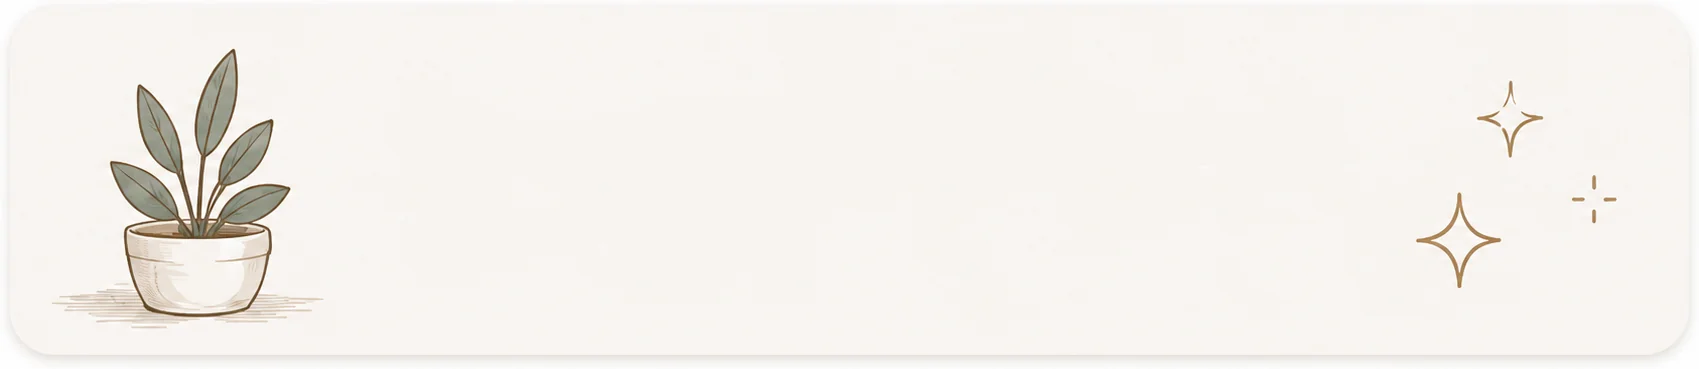
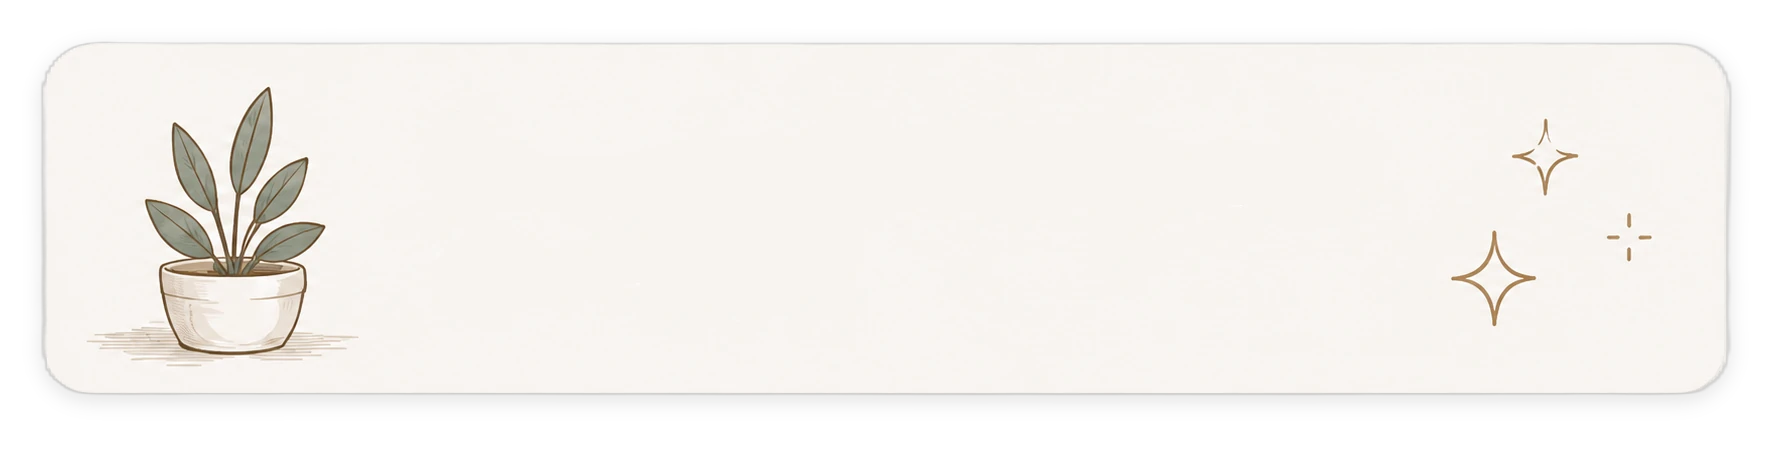
Replace done-today image with truly transparent version plus soft drop shadow

diff --git a/src/screens/HomeTab.jsx b/src/screens/HomeTab.jsx
@@ -64,8 +64,7 @@ export function HomeTab({
       </div>
 
       {allDoneToday ? (
-        <div style={{ margin: "16px 20px 8px", borderRadius: 18, overflow: "hidden", position: "relative",
-          boxShadow: "0 4px 12px rgba(52,64,50,.10)" }}>
+        <div style={{ margin: "16px 20px 8px", position: "relative" }}>
           <img src={DONE_TODAY_IMG} alt="" style={{ width: "100%", height: "auto", display: "block", pointerEvents: "none" }} />
           <div style={{ position: "absolute", inset: 0, display: "flex", flexDirection: "column",
             alignItems: "center", justifyContent: "center", textAlign: "center", padding: "0 20px" }}>
